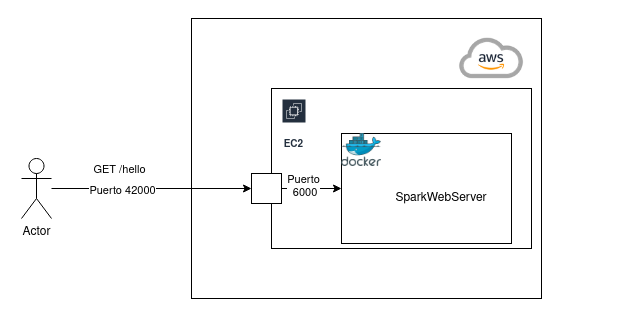
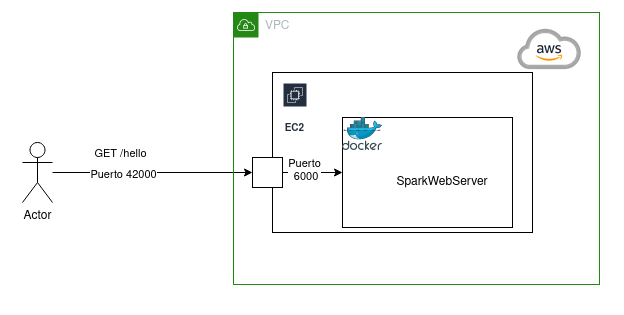
Updating readme with deployment information

Changed region(s): [[0.0305, 0.0286, 0.9454, 0.9429]]

diff --git a/README.md b/README.md
@@ -1,4 +1,4 @@
-# AREP-SparkLab01 - Taller de Introducción a Virtualización y prog. distribuida
+# AREP-SparkLab01 - Taller de Introducción a Virtualización y programación distribuida
 ## Descripción
 El taller consiste en crear una aplicación web pequeña usando el micro-framework de Spark
 java (http://sparkjava.com/). Posteriormente se utilizará docker para crear un contenedor
@@ -9,8 +9,8 @@ una imagen que se almacenará en DockerHub para usarla durante el despliegue a A
 ## Arquitectura utilizada
 La arquitectura de la aplicación consta de una instancia de EC2 en el que se ejecuta un contenedor
 de Docker que representa un servidor web que expone un único endpoint (`GET /hello`). El acceso a la instancia
-es directamente a través de la dirección IP, utilizando el puerto `42000`. A continuación se presenta un diagrama
-con la arquitectura utilizada.
+es directamente a través del DNS público asignado por AWS (`ec2-18-212-207-253.compute-1.amazonaws.com`),
+utilizando el puerto `42000`. A continuación se presenta un diagrama con la arquitectura utilizada.
 ![](./img/arquitectura.png)
 ## Pre-requisitos
 * [Docker](https://www.docker.com/) - Administrador de contenedores
@@ -26,12 +26,20 @@ A continuación se proporcionan las instrucciones para crear la imagen de la apl
 ``mvn clean install``
 
 Esto generará todos los archivos necesarios para ejecutar la aplicación en formato Jar.
-Para ejecutar la aplicación localmente SIN usar contenedores se puede ejecutar el siguiente comando
+
+Para ejecutar la aplicación localmente **SIN** usar contenedores se puede ejecutar el siguiente comando
 
 ``java -cp "target/classes:target/dependency/*" co.edu.escuelaing.sparkdockerdemolive.SparkWebServer``
 
-2. **Crear la imagen** : Desde la raíz del proyecto, ejecutar el siguient comando de docker para
+2. **Crear la imagen** : Desde la raíz del proyecto, ejecutar el siguiente comando de docker para
     construir la imagen de la aplicación usando los archivos generados anteriormente:
 
 ``docker build --tag dockersparkprimer .``
-    
+
+## Resultados del despliegue
+A continuación se muestran evidencias de la ejecución de la aplicación una vez desplegada en la 
+máquina de EC2 creada.
+### Ejecución del container con la imagen creada
+![Container Running.png](img%2FContainer%20Running.png)
+### Resultado del endpoint al consultar la instancia a través de internet
+![Endpoint response.png](img%2FEndpoint%20response.png)
